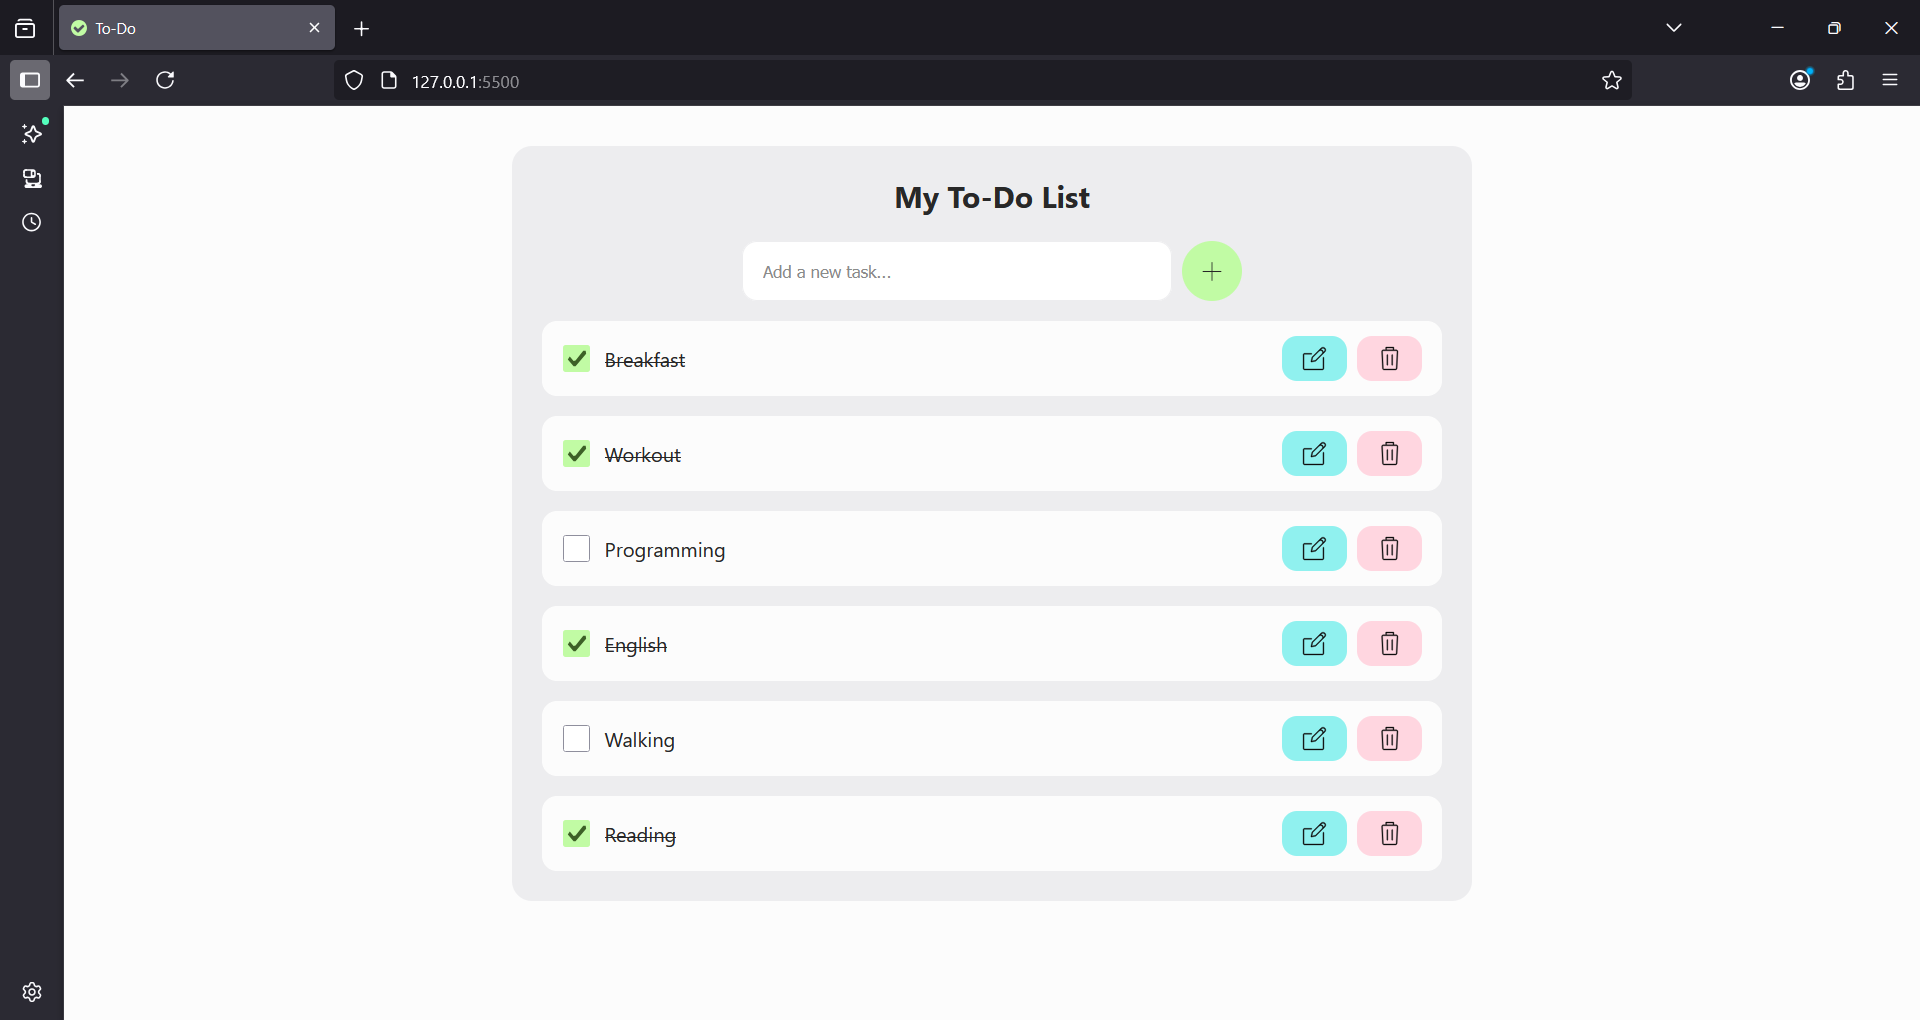
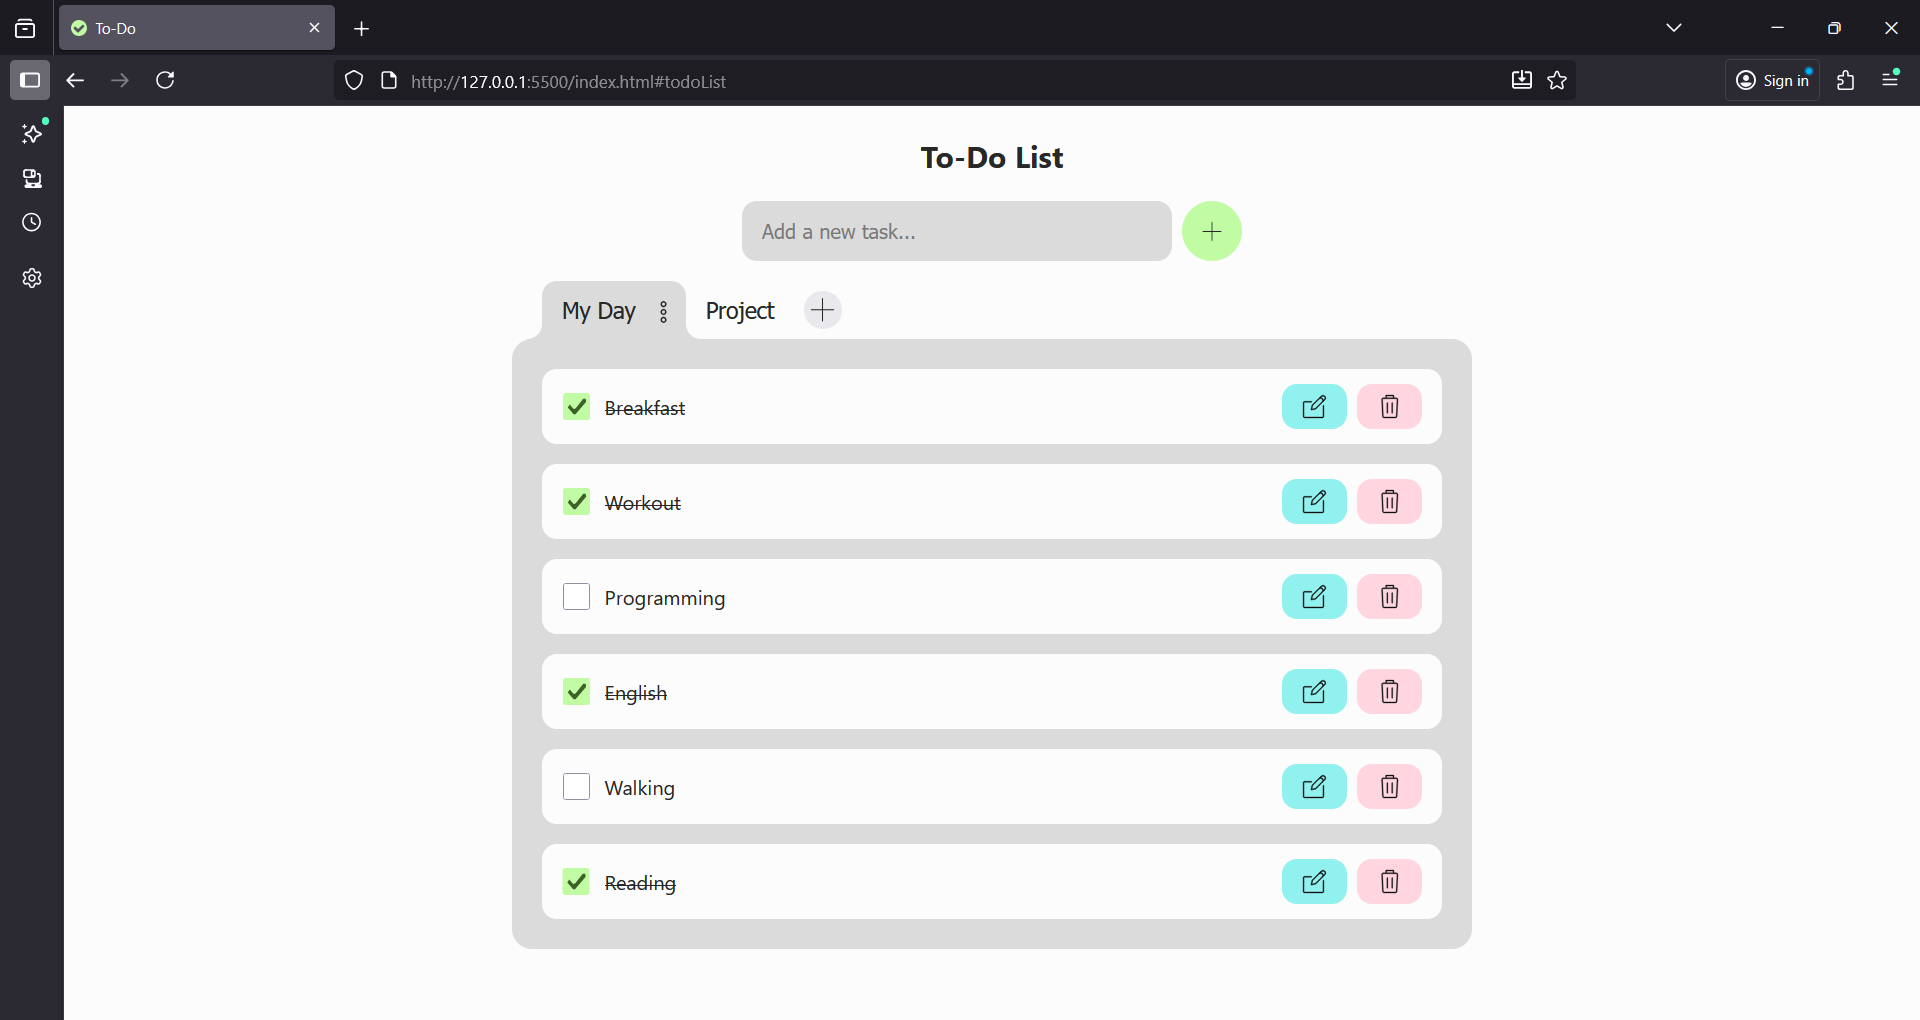
docs: update README.md

diff --git a/README.md b/README.md
@@ -1,6 +1,7 @@
 # 📝 To-Do App
 
-A simple **To-Do list** built with vanilla **HTML, CSS, and JavaScript**.
+A minimalistic **To-Do** web application built with vanilla **HTML, CSS, and
+JavaScript**.
 
 ---
 
@@ -13,19 +14,26 @@ A simple **To-Do list** built with vanilla **HTML, CSS, and JavaScript**.
 
 ## ✨ Features
 
-- ➕ Add new tasks
-- ✅ Mark tasks as complete
-- 📝 Edit tasks in a dialog window
+✅ Tasks
+
+- ➕ Add new tasks to the active list
+- ✅ Mark tasks as complete / incomplete
+- 📝 Edit tasks
 - ❌ Delete tasks
 - ↕ Drag-and-drop task reordering
 
----
+🗂 Lists
+
+- ➕ Create multiple to-do lists
+- 📝 Rename lists
+- ❌ delete lists
+- 💾 Automatically saves lists to localStorage
 
 ## 🛠 Tech Stack
 
 - **HTML5** – semantic structure
-- **CSS3** – responsive design
-- **JavaScript (ES6+)** – DOM manipulation, events, localStorage API
+- **CSS3** – responsive layout, modular styles
+- **JavaScript (ES6+)** – dynamic UI, modules, localStorage API
 
 ---
 
